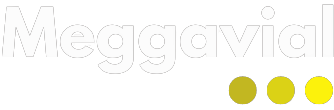
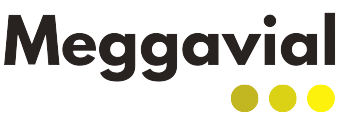
Segundo commit

diff --git a/index.html b/index.html
@@ -14,7 +14,7 @@
 
 <body>
     <header>
-        <nav class="navbar navbar-expand-lg navbar-dark">
+        <nav class="navbar navbar-expand-lg navbar-light">
             <div class="container-fluid">
                 <a class="navbar-brand" href="#"><img src="./img/meggavial2.png" alt="Logo MeggaVial" width="110px"
                         height="40px"></a>

diff --git a/css/styles.css b/css/styles.css
@@ -4,8 +4,12 @@
     box-sizing: border-box;
 }
 
-header nav {
+body {
     background-color: rgb(17, 17, 17);
+}
+
+header nav {
+    background-color: rgb(255, 255, 255);
 }
 
 .navbar-brand {
